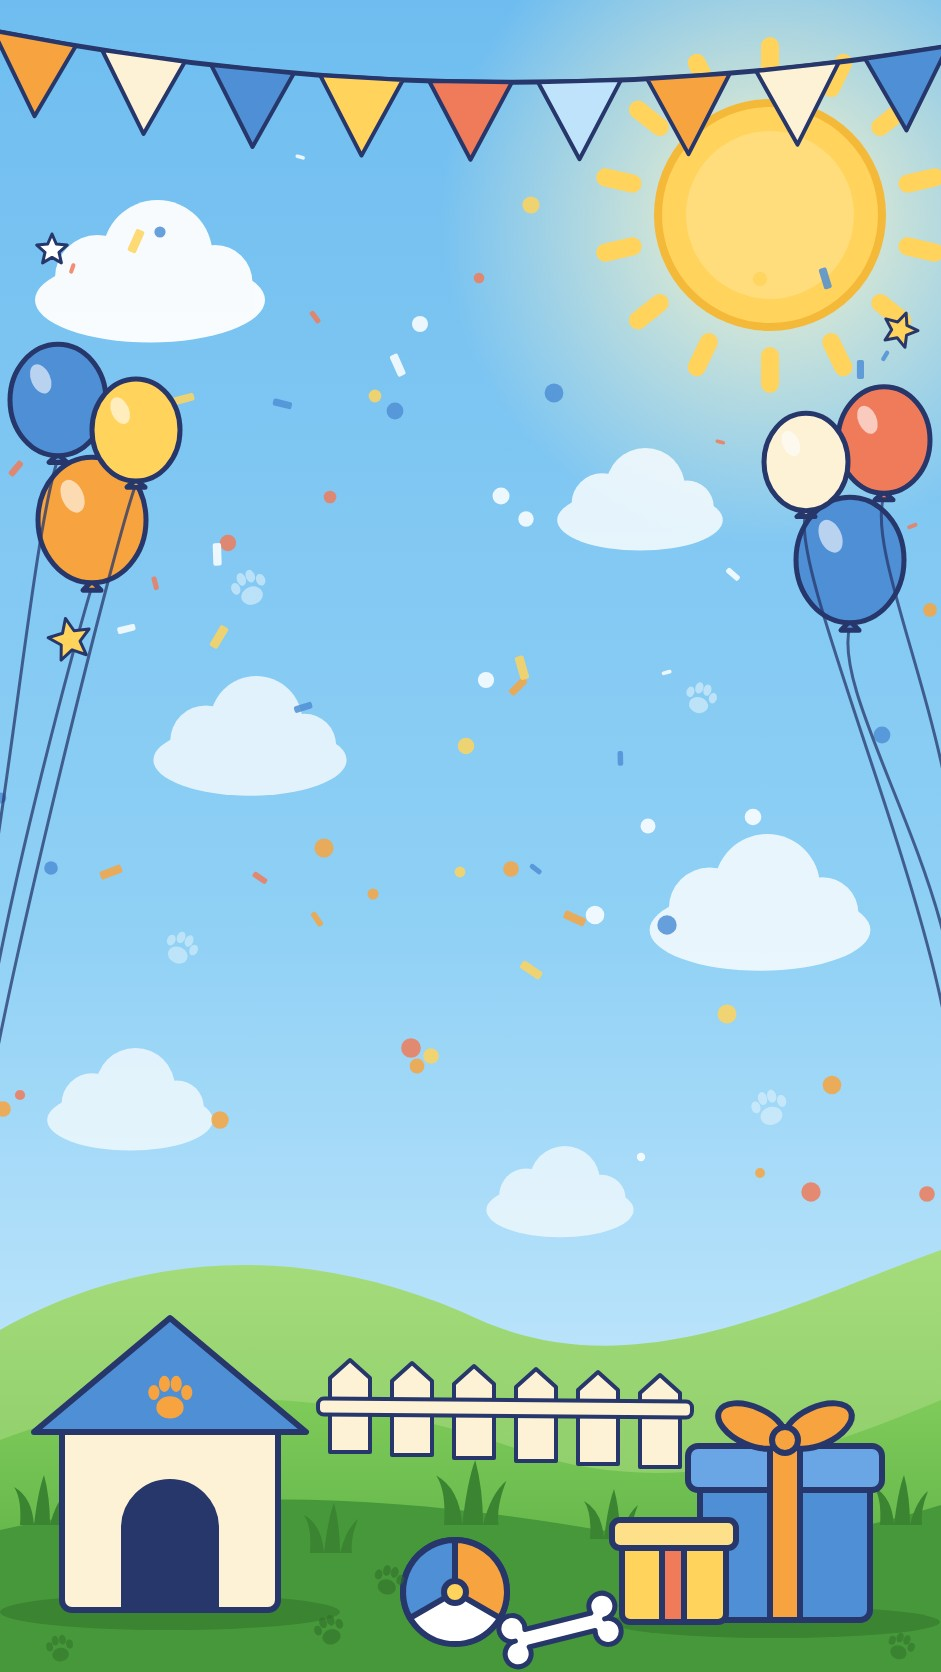
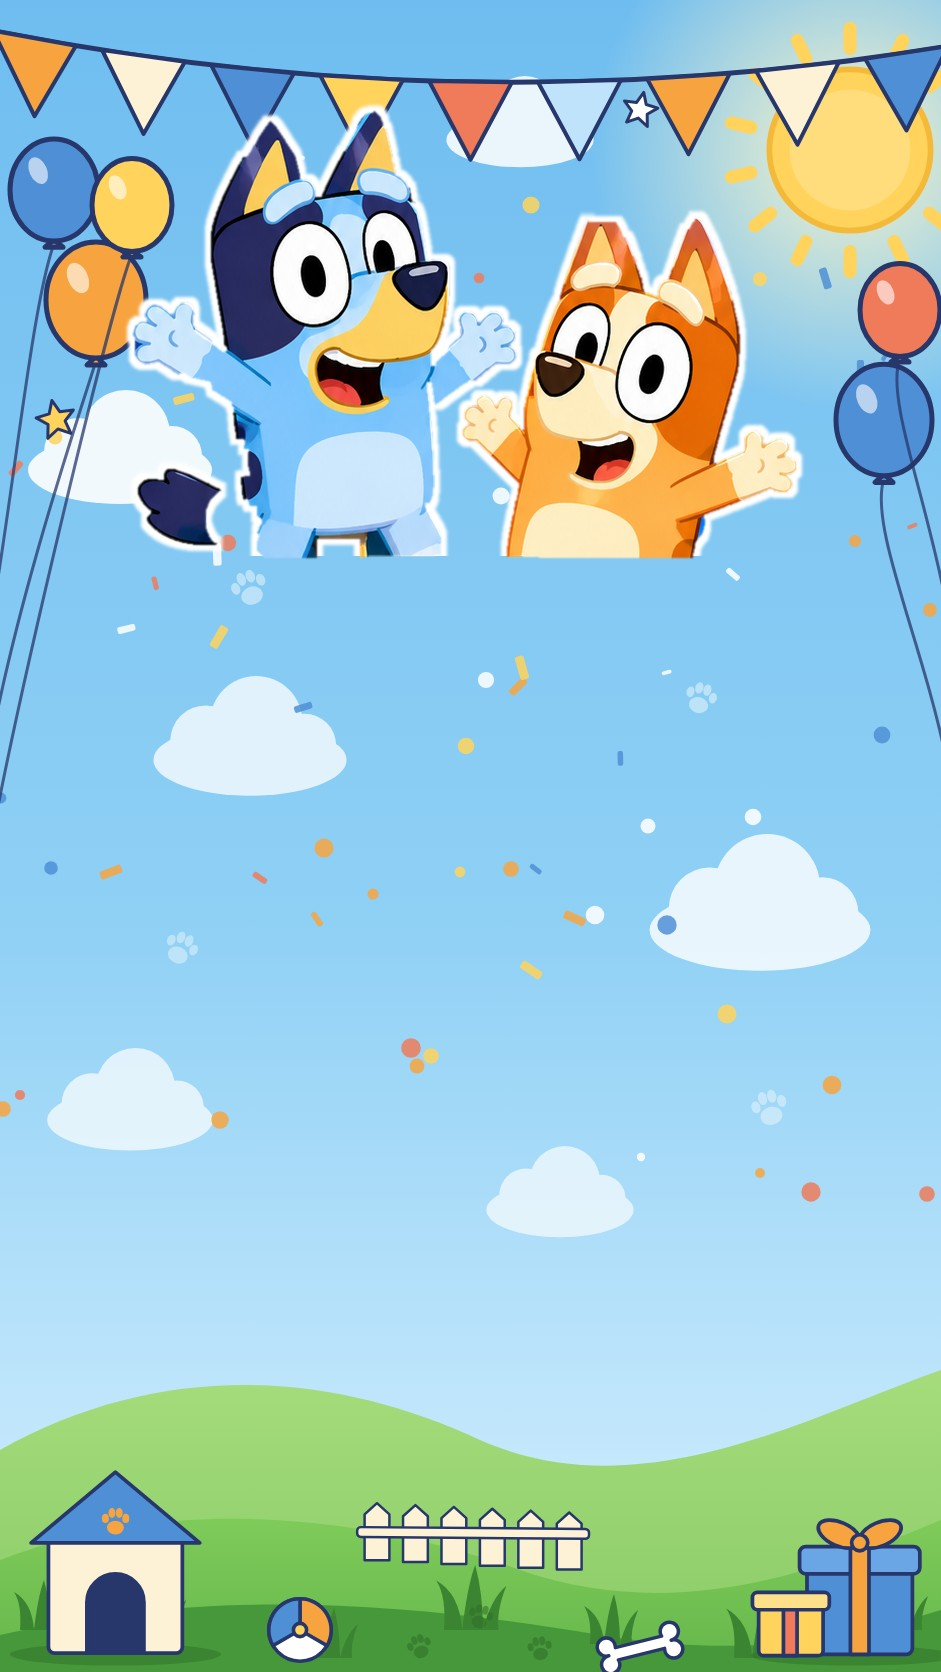
Add the characters to the Bluey template art
The art now combines the backyard scene with a cutout of the characters
supplied by the owner. The layout moves down so the name board covers
the base of the cutout.

Claude-Session: https://claude.ai/code/session_01PM6JEVD94roesfv95mvFXA

diff --git a/templates/bluey/template.html b/templates/bluey/template.html
@@ -16,15 +16,16 @@ body{margin:0;background:#3f7fc4;color:var(--navy);font-family:'Fredoka',ui-roun
 .art{display:block;width:100%;height:100%;user-select:none;-webkit-user-drag:none}
 .slot{position:absolute;display:flex;align-items:center;justify-content:center;margin:0;text-align:center;overflow:hidden}
 
-/* Para trocar a arte: as posições abaixo são porcentagens do cartão (941 x 1672). */
-.hello{left:18%;top:10.6%;width:64%;height:3.4%;font-size:4.3cqw;font-weight:600;letter-spacing:.04em;text-transform:uppercase;color:#fff;text-shadow:0 .35cqw 0 var(--navy),.3cqw 0 0 var(--navy),-.3cqw 0 0 var(--navy),0 -.3cqw 0 var(--navy)}
-.name{left:14%;top:14.2%;width:72%;height:13.4%;padding:0 1.6cqw;font-size:17cqw;font-weight:700;line-height:1;color:var(--navy);text-wrap:balance;text-shadow:.5cqw 0 0 #fff,-.5cqw 0 0 #fff,0 .5cqw 0 #fff,0 -.5cqw 0 #fff,.36cqw .36cqw 0 #fff,-.36cqw .36cqw 0 #fff,.36cqw -.36cqw 0 #fff,-.36cqw -.36cqw 0 #fff,0 1.1cqw 0 rgba(39,55,107,.28)}
-.age{left:29%;top:28.6%;width:42%;height:5%;font-size:5.6cqw;font-weight:700;line-height:1;white-space:nowrap;color:var(--navy);background:var(--orange);border:.6cqw solid var(--navy);border-radius:99cqw;box-shadow:0 .8cqw 0 var(--navy)}
+/* As posições são porcentagens do cartão (941 x 1672). A placa do nome cobre a base dos personagens. */
+.board{position:absolute;left:9%;top:31.4%;width:82%;height:14.4%;background:var(--cream);border:.6cqw solid var(--navy);border-radius:6cqw;box-shadow:0 1cqw 0 var(--navy)}
+.hello{left:16%;top:32.5%;width:68%;height:2.9%;font-size:3.8cqw;font-weight:700;letter-spacing:.08em;text-transform:uppercase;color:var(--blue)}
+.name{left:12%;top:35.2%;width:76%;height:8.4%;font-size:13cqw;font-weight:700;line-height:1;color:var(--navy);text-wrap:balance}
+.age{left:29%;top:43.8%;width:42%;height:4.6%;font-size:5.2cqw;font-weight:700;line-height:1;white-space:nowrap;color:var(--navy);background:var(--orange);border:.6cqw solid var(--navy);border-radius:99cqw;box-shadow:0 .8cqw 0 var(--navy)}
 .age:empty::before{content:"Parabéns!"}
-.message{left:13%;top:36.2%;width:74%;height:9.6%;padding:1.4cqw 4cqw;font-size:4.5cqw;line-height:1.12;background:rgba(255,255,255,.92);border:.6cqw solid var(--navy);border-radius:5cqw;box-shadow:0 .8cqw 0 var(--navy)}
+.message{left:13%;top:50.8%;width:74%;height:8.2%;padding:1.2cqw 4cqw;font-size:4.3cqw;line-height:1.12;background:rgba(255,255,255,.92);border:.6cqw solid var(--navy);border-radius:5cqw;box-shadow:0 .8cqw 0 var(--navy)}
 .message:empty::before{content:"Vem brincar e comemorar com a gente! Vai ter muita diversão."}
 
-.tile{position:absolute;top:48.4%;width:24.6%;height:13.4%;display:flex;flex-direction:column;background:#fff;border:.6cqw solid var(--navy);border-radius:4.4cqw;box-shadow:0 .8cqw 0 var(--navy);overflow:hidden;color:var(--navy);text-decoration:none}
+.tile{position:absolute;top:61.2%;width:24.6%;height:12.4%;display:flex;flex-direction:column;background:#fff;border:.6cqw solid var(--navy);border-radius:4.4cqw;box-shadow:0 .8cqw 0 var(--navy);overflow:hidden;color:var(--navy);text-decoration:none}
 .tile b{flex:none;display:block;padding:.9cqw 0 .7cqw;font-size:3.2cqw;font-weight:700;letter-spacing:.06em;text-transform:uppercase;text-align:center;border-bottom:.6cqw solid var(--navy)}
 .tile-date{left:10.1%}.tile-date b{background:var(--sky)}
 .tile-time{left:37.7%}.tile-time b{background:var(--yellow)}
@@ -41,8 +42,8 @@ body{margin:0;background:#3f7fc4;color:var(--navy);font-family:'Fredoka',ui-roun
 .btn{position:absolute;display:flex;align-items:center;justify-content:center;gap:2cqw;padding:0 3cqw;border:.6cqw solid var(--navy);border-radius:99cqw;font-family:inherit;font-weight:700;color:var(--navy);cursor:pointer;-webkit-tap-highlight-color:transparent;transition:transform .1s,box-shadow .1s,filter .15s}
 .btn:hover,.btn:focus-visible,.tile-place:hover,.tile-place:focus-visible{filter:brightness(1.06);outline:.7cqw solid #fff;outline-offset:.3cqw}
 .btn:active{transform:translateY(.6cqw);box-shadow:0 .3cqw 0 var(--navy)}
-.btn-rsvp{left:14%;top:65.4%;width:72%;height:7.2%;font-size:6cqw;background:var(--orange);box-shadow:0 1.1cqw 0 var(--navy)}
-.btn-gifts{left:23%;top:74.6%;width:54%;height:5%;font-size:4.1cqw;background:var(--cream);box-shadow:0 .9cqw 0 var(--navy)}
+.btn-rsvp{left:14%;top:75.6%;width:72%;height:6.8%;font-size:6cqw;background:var(--orange);box-shadow:0 1.1cqw 0 var(--navy)}
+.btn-gifts{left:23%;top:84%;width:54%;height:4.6%;font-size:4.1cqw;background:var(--cream);box-shadow:0 .9cqw 0 var(--navy)}
 .paw{width:1.1em;height:1.1em;flex:none;fill:currentColor}
 
 /* Janelas do sistema, no visual do tema. */
@@ -72,7 +73,8 @@ body{margin:0;background:#3f7fc4;color:var(--navy);font-family:'Fredoka',ui-roun
 <div class="stage">
 <img class="bg" src="{{art_url}}" alt="">
 <main class="card">
-  <img class="art" src="{{art_url}}" alt="Quintal ensolarado com balões, bandeirinhas e presentes">
+  <img class="art" src="{{art_url}}" alt="Bluey e Bingo comemorando em um quintal ensolarado, com balões e bandeirinhas">
+  <div class="board"></div>
   <p class="slot hello" data-fit>Você é meu convidado!</p>
   <h1 class="slot name" data-fit>{{child_name}}</h1>
   <p class="slot age" data-fit>{{age_label}}</p>

diff --git a/README.md b/README.md
@@ -21,7 +21,7 @@ Os textos ficam fora da imagem. Corrigir data ou local não exige nova arte.
 - Os botões usam `data-action="rsvp"`, `data-action="maps"` e `data-action="gifts"`.
 - `data-fit` reduz a fonte de um texto até ele caber.
 - `templates/minecraft` guarda o primeiro modelo, com a arte limpa e o HTML.
-- `templates/bluey` guarda um modelo em que a arte é só o cenário: os cartões e botões são desenhados pelo HTML, então dá para trocar a arte sem reposicionar nada. `arte.svg` é a fonte editável de `arte.jpg`.
+- `templates/bluey` guarda um modelo em que os cartões e botões são desenhados pelo HTML. A arte (`arte.jpg`) junta o cenário (`cenario.svg`) com o recorte dos personagens (`personagens.png`), e a placa do nome cobre a base do recorte.
 
 Cada convite guarda uma cópia do HTML, então editar um modelo não altera convites já criados.
 
